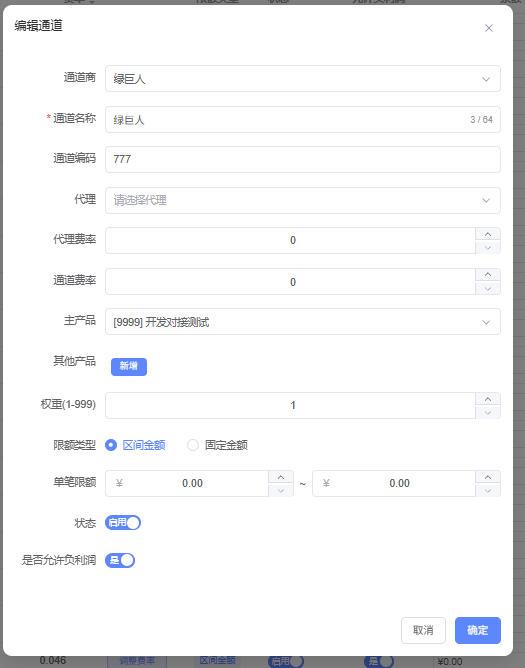
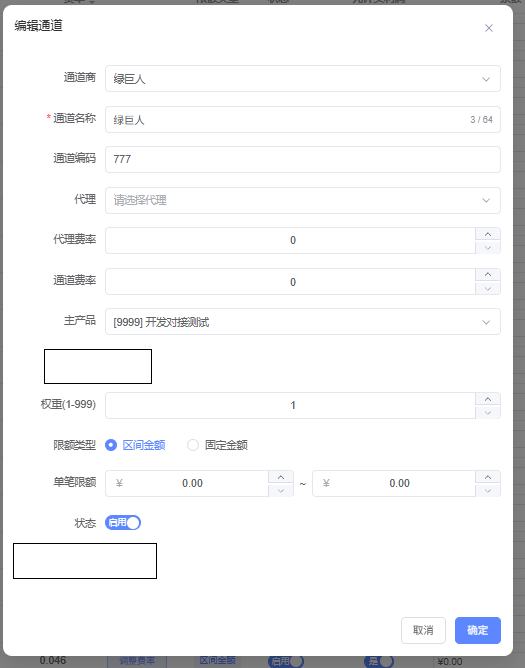
perf: docs9

Changed region(s): [[0.0305, 0.8084, 0.2743, 0.8683], [0.0914, 0.509, 0.1829, 0.5689], [0.2133, 0.509, 0.3048, 0.5689]]

diff --git a/README.md b/README.md
@@ -1,21 +1,21 @@
 2026/01/07 问题反馈
 
-1. 商户预付列表 接口 api/merchant/advances 返回数据中跟金额有关的只有一个 amount，没有变更前或者变更后的值，截图中是有 变更前预付、变更金额、变更后预付三个字段
-2. 代付商户的 api/merchant/balance_add 调整余额接口无效，提示成功，但是值不会变
-3. 商户通道绑定操作 api/merchant/channel_operation 不会返回
-4. 商户产品绑定保存 api/merchant/product_save 这个接口修改提交提示成功，再重新拉取数据没变还是旧的
-5. 管理员登陆（已接入）api/user/adminlogin 需去掉新增的IP字段
-6. 商户产品绑定保存 id改成product_id api/merchant/product_save 保存提示成功后重新拉取还是旧数据
-7. 商户通道绑定保存 接口 api/merchant/channel_save 提交数据提示成功，重新拉取数据后还是跟旧的一样没有变化
-8. 商户通道绑定配置（已接入）api/merchant/product 商户ID非1的拉下来的数据都是空的，测试ID:12
-9. 商户通道绑定配置（已接入）api/merchant/channel 拉取的数据缺少产品编码（code）字段，比如 黄金100 的条目，id为1，code值是null
-10. 产品列表 api/product/get 请求值的类型和是否必选好像没填对
-11. 产品添加 api/product/add 请求值的类型和是否必选好像没填对
-12. 产品更新 api/product/update 请求值的类型和是否必选好像没填对
-13. 代理列表 api/agent/get 请求值的类型和是否必选好像没填对
-14. 代理添加 api/agent/add 确认是否现在新建的时候只要类型和名字，不需要密码等其它数据吗
-15. 代理删除 api/agent/del APIPOST中测试返回错误201
-16. 代理更新 api/agent/update 请求值的类型和是否必选好像没填对
+1. 商户预付列表 接口 api/merchant/advances 返回数据中跟金额有关的只有一个 amount，没有变更前或者变更后的值，截图中是有 变更前预付、变更金额、变更后预付三个字段（加了变更前预付，变更后可以计算出来）
+2. 代付商户的 api/merchant/balance_add 调整余额接口无效，提示成功，但是值不会变（代付延后处理）
+3. 商户通道绑定操作 api/merchant/channel_operation 不会返回（已经处理）
+4. 商户产品绑定保存 api/merchant/product_save 这个接口修改提交提示成功，再重新拉取数据没变还是旧的（已经处理）
+5. 管理员登陆（已接入）api/user/adminlogin 需去掉新增的IP字段（已经处理）
+6. 商户产品绑定保存 id改成product_id api/merchant/product_save 保存提示成功后重新拉取还是旧数据（已经处理）
+7. 商户通道绑定保存 接口 api/merchant/channel_save 提交数据提示成功，重新拉取数据后还是跟旧的一样没有变化（已经处理）
+8. 商户通道绑定配置（已接入）api/merchant/product 商户ID非1的拉下来的数据都是空的，测试ID:12（已经处理）
+9. 商户通道绑定配置（已接入）api/merchant/channel 拉取的数据缺少产品编码（code）字段，比如 黄金100 的条目，id为1，code值是null（用不到产品编码）
+10. 产品列表 api/product/get 请求值的类型和是否必选好像没填对（已经处理）
+11. 产品添加 api/product/add 请求值的类型和是否必选好像没填对（已经处理）
+12. 产品更新 api/product/update 请求值的类型和是否必选好像没填对（已经处理）
+13. 代理列表 api/agent/get 请求值的类型和是否必选好像没填对（已经处理）
+14. 代理添加 api/agent/add 确认是否现在新建的时候只要类型和名字，不需要密码等其它数据吗（等待沟通）
+15. 代理删除 api/agent/del APIPOST中测试返回错误201（ID存在不会201）
+16. 代理更新 api/agent/update 请求值的类型和是否必选好像没填对（已经处理）
 17. 订单列表 api/order/get 返回的数据中没有截图里的 成功交易总金额、平台利润等 数据
 
 缺失示意图汇总：-------------------------------------------------------
@@ -23,16 +23,16 @@
 产品：
 
 1. 代付产品截图
-2. 新增产品截图
+2. 新增产品截图（已经补充）
 
 通道：
 
-1. 新增通道截图
+1. 新增通道截图（跟编辑通道一样）
 2. 代付通道截图
 
 代理：
 
-1. 代理功能的所有截图
+1. 代理功能的所有截图（已经添加，代理名称和用户名二合一）
 
 订单：
 
